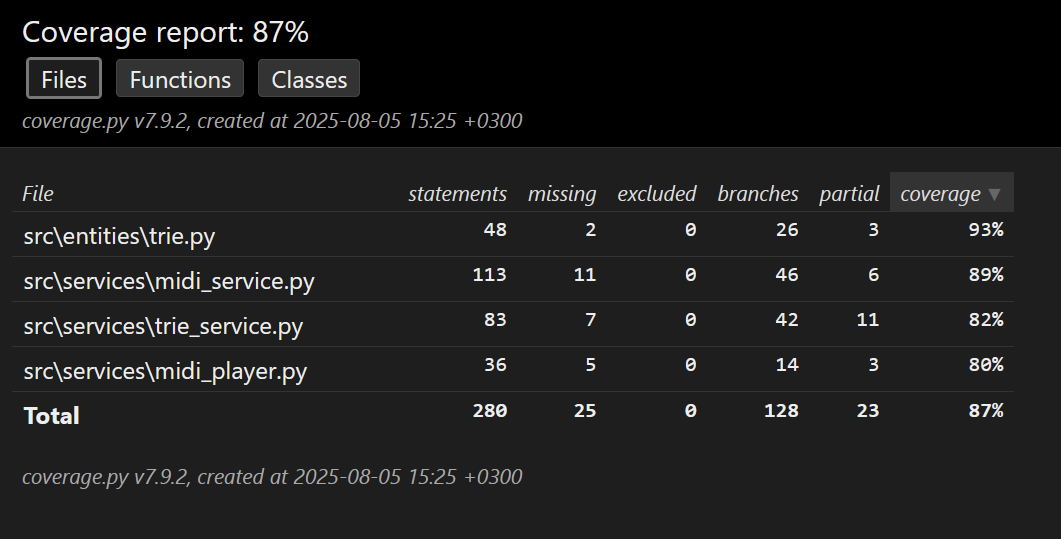
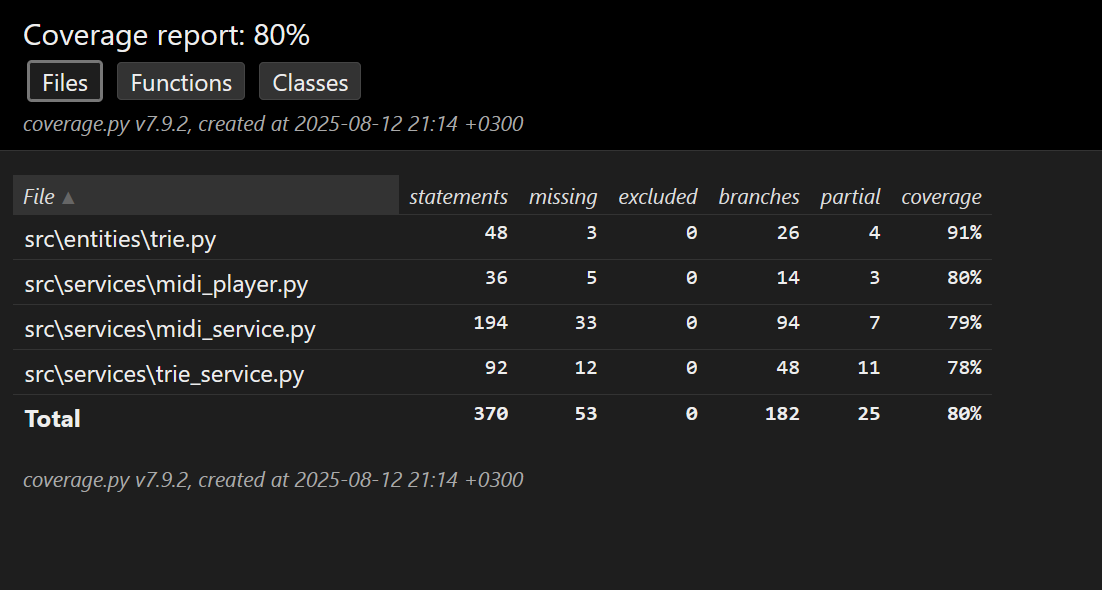
Updated tests

diff --git a/src/tests/midi_service_test.py b/src/tests/midi_service_test.py
@@ -10,6 +10,11 @@ class TestMidiService(unittest.TestCase):
         self.test_dir = "src/data/tests"
         if not os.path.exists(self.test_dir):
             os.makedirs(self.test_dir)
+        self.test_directory = "src/data/midi_test_data"
+        self.test_files = []
+        for filename in os.listdir(self.test_directory):
+            if filename.endswith(".mid"):
+                self.test_files.append(os.path.join(self.test_directory, filename))
 
     def tearDown(self):
         for file in os.listdir(self.test_dir):
@@ -35,7 +40,7 @@ class TestMidiService(unittest.TestCase):
         original_score = [[(80, 120), (82, 120), (200, 120),
                           (200, 120), (80, 120), (90, 120), (83, 120), (200, 120)], [(1920)]]
         file_name = "tests/last_note"
-        midi_service1.save_generated_song(original_score, 120, file_name, 1920)
+        midi_service1.save_generated_song(original_score, 120, file_name)
         file_path = f"src\\data\\{file_name}{0}.mid"
         score = midi_service1.read_midi_file(file_path)
         test_score = [(80, 120), (82, 120), (200, 240),
@@ -55,21 +60,20 @@ class TestMidiService(unittest.TestCase):
         self.assertEqual(test_score, score[2])
     
     def test_read_file_quantification_works(self):
-        file = "src/data/midi_test_data/1981396.mid"
-        midi_file = self.midi_service.read_midi_file(file)
-        self.assertEqual(0, midi_file[1][0][0] % 40)
-        self.assertEqual(0, self.midi_service.read_midi_file(self._test_file_path)[1][0][0] % 40)
+         for file in self.test_files:
+            midi_file = self.midi_service.read_midi_file(file)
+            self.assertEqual(0, midi_file[1][0][0] % 40)
+            self.assertEqual(0, self.midi_service.read_midi_file(self._test_file_path)[1][0][0] % 40)
     
     def test_read_file_no_negatives(self):
-        file = "src/data/midi_test_data/639.mid"
-        midi_file = self.midi_service.read_midi_file(file)
-        for bar in midi_file[1]:
-            for note in bar:        
-                self.assertLess(0, note)
+         for file in self.test_files:
+            midi_file = self.midi_service.read_midi_file(file)
+            for bar in midi_file[1]:
+                for note in bar:        
+                    self.assertLess(0, note)
     
     def test_read_file_no_zero_rhythms(self):
-        files = ["src/data/midi_test_data/806.mid", "src/data/midi_test_data/1981736.mid"]
-        for file in files:
+        for file in self.test_files:
             midi_file = self.midi_service.read_midi_file(file)
             for bar in midi_file[1]:
                 for note in bar:        

diff --git a/src/tests/trie_service_test.py b/src/tests/trie_service_test.py
@@ -1,3 +1,4 @@
+import os
 import unittest
 from entities.trie import Trie, TrieNode
 from services.trie_service import TrieService
@@ -25,7 +26,11 @@ class TestTrie(unittest.TestCase):
     def test_read_file(self):
         self.assertTrue(self.file)
 
-    def test_generate_random_sequence(self):
+    def test_generate_random_sequence1(self):
+        seq = self.trie_service.generate_random_sequence_from_data(1)
+        self.assertTrue(any(note in self._notes for note in seq))
+    
+    def test_generate_random_sequence2(self):
         seq = self.trie_service.generate_random_sequence_from_data(2)
         self.assertTrue(any(note in self._notes for note in seq))
 
@@ -34,26 +39,33 @@ class TestTrie(unittest.TestCase):
         song = self.trie_service.generate_song(seq, 10, 1)
         self.assertTrue(note in self._notes for note in song)
     
-    def test_generate_score_notes(self):
+    def test_generate_score_notes1(self):
         file_path = "src\\data\\Super Mario Bross (Theme Song) - melody.mid"
         self.trie_service._read_file(file_path, self.order)
         notes = self.trie_service.trie_notes.get_unique_sequences(1)        
-        seq = self.trie_service.generate_random_sequence_from_data(1,2)
+        seq = self.trie_service.generate_random_sequence_from_data(1,1)
         length = 5
-        option = 2
+        option = 1
         song = self.trie_service.generate_score(seq, length, option)
         self.assertTrue(note in notes for note in song)
 
-    def test_generate_score_notes(self):
+    def test_generate_score_notes2(self):
         file_path = "src\\data\\Super Mario Bross (Theme Song) - melody.mid"
         self.trie_service._read_file(file_path, self.order)
         rhythms = self.trie_service.trie_rhythm.get_unique_sequences(1)
-        
         seq = self.trie_service.generate_random_sequence_from_data(1,2)
         length = 5
         option = 2
         song = self.trie_service.generate_score(seq, length, option)
         self.assertTrue(rhythm in rhythms for rhythm in song)
+
+    def test_process_midi_files(self):
+        directory = "src/data/midi_test_data"
+        result = self.trie_service.process_midi_files(directory, 3)
+        self.assertTrue(result)
+        
+
+
 
     
         

diff --git a/dokumentaatio/testausraportti.md b/dokumentaatio/testausraportti.md
@@ -4,7 +4,7 @@
 Sovelluksen testaukseen käytetään Unittestiä. Automaattitestauksessa testataan entities- ja services-kansioiden luokat. Käyttöliittymän testaus jää yksikkötestauksen ulkopuolella. Automaattitesteillä testataan sovelluksen reagointia oikeanmuotoisilla syötteillä.
 
 ### Testikattavuus
-(![Testikattavuuden tilanne 10.8.2025](image-1.png))
+(![Testikattavuuden tilanne 10.8.2025](image.png))
 
 ## Käyttöliittymätestaus
 Käyttöliittymätestaus on toteutettu manuaalisesti ja siinä keskitytty sovelluksen käytettävyyteen.

diff --git a/dokumentaatio/Viikkoraportti6.md b/dokumentaatio/Viikkoraportti6.md
@@ -15,7 +15,7 @@
 - midi-tiedoston voi näköjään rakentaa hyvin monella eri tavalla, mikä siirtää työn painopistettä tämän datan muokkaamiseen sopivaksi kappalegeneraattorille
 
 ## Käytetty tuntimäärä
-- 12
+- 13
 
 ## Mitä teen seuraavaksi?
 - testausta: täytyy tehdä tiedoston lukemiseen testi, jossa tietyn kansion kaikki midi-tiedostot luetaan ja testataan kerralla
